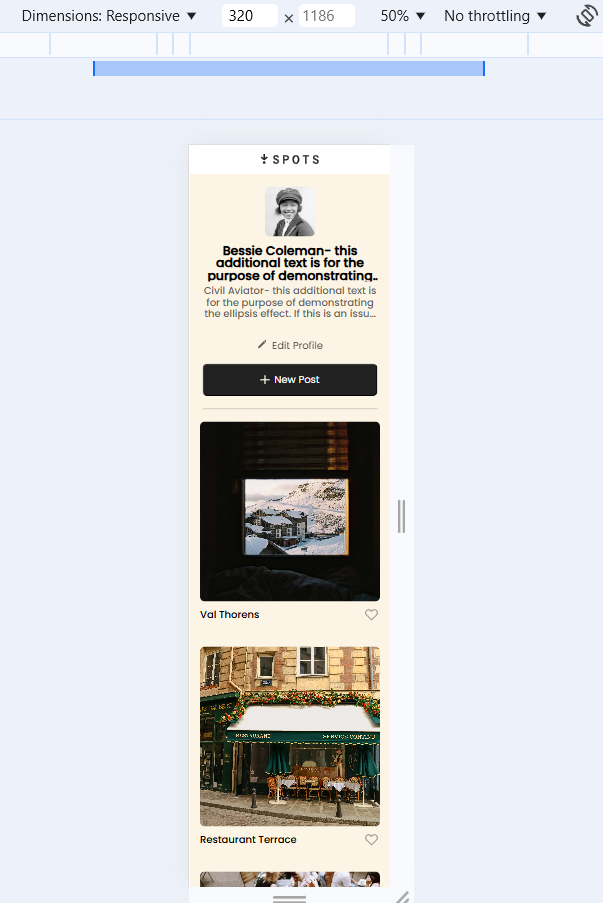
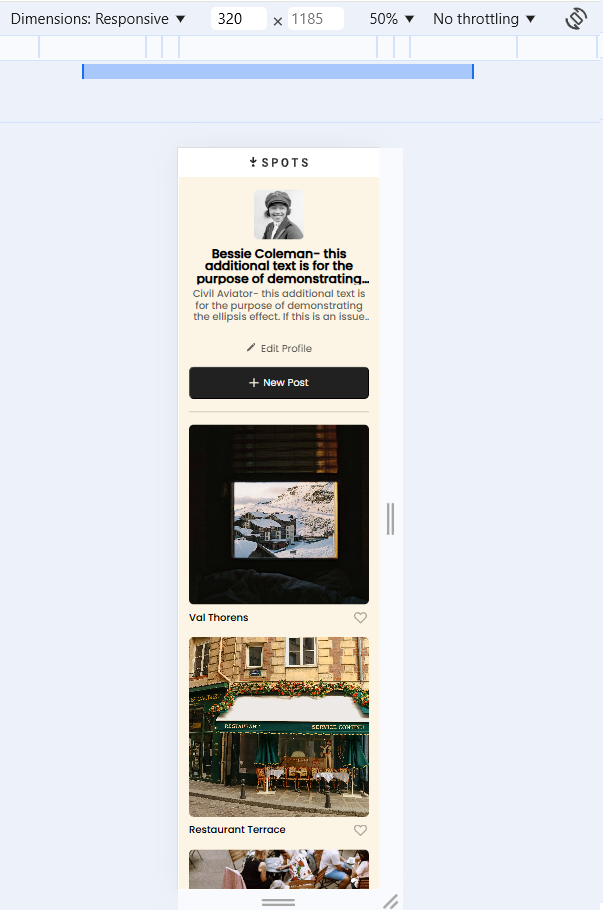
Final Draft 3

diff --git a/blocks/footer.css b/blocks/footer.css
@@ -2,4 +2,17 @@
   display: flex;
   justify-content: center;
   padding: 60px 0;
+  margin: 0;
 }
+.footer__copyright {
+  margin: 0;
+  height: 16px;
+  font-size: 16px;
+  font-weight: 400;
+  line-height: 16px;
+  color: #212121;
+  opacity: 70%;
+}
+/*I added a couple few changes, including an issue with .footer__copyright
+had a default margin of 16px top/bottom. I zeroed both .footer and
+.footer__copyright just in case. */

diff --git a/blocks/cards.css b/blocks/cards.css
@@ -14,6 +14,9 @@
 }
 
 @media screen and (max-width: 627px) {
+  .cards {
+    padding: 20px 0; /*Added this*/
+  }
   .cards__list {
     grid-template-columns: repeat(auto-fit, 288px);
     gap: 20px; /*Added this*/
